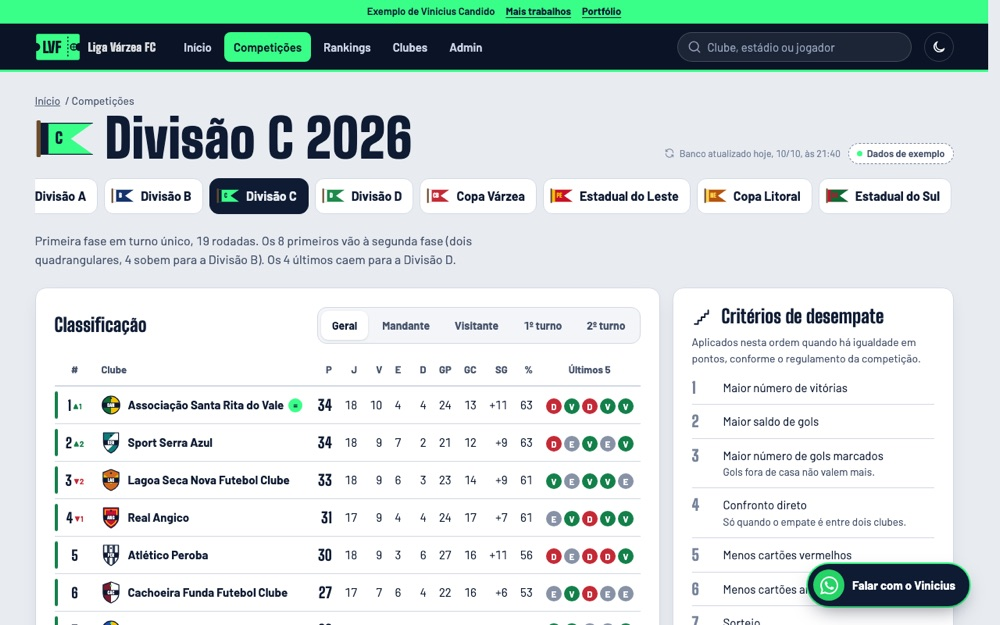
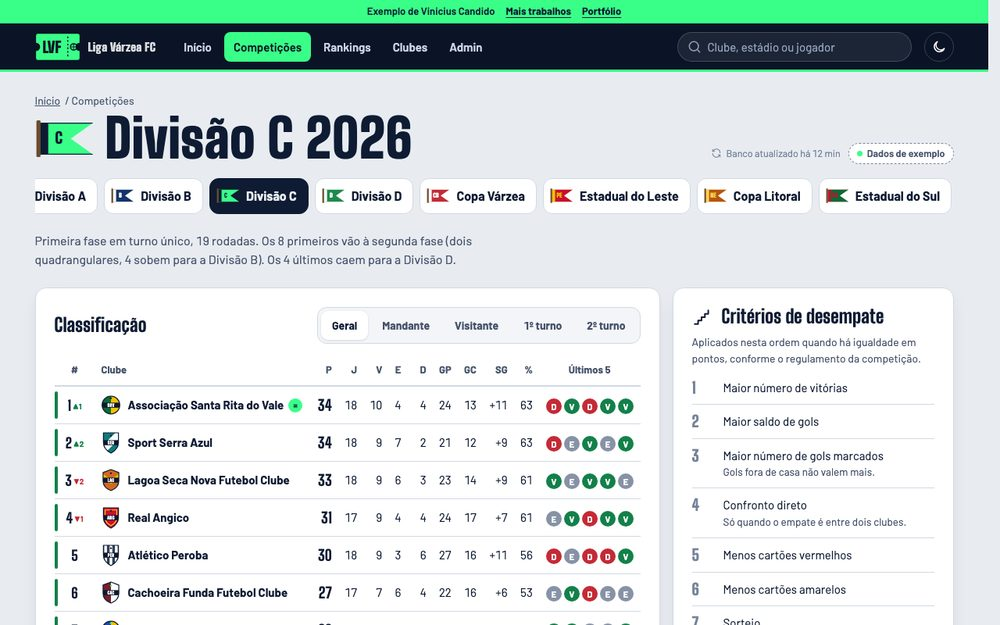
fix(trabalhos): gutter mobile, nomes e siglas fictícios, capturas sem botão, og:image própria e cartão da psicologia pelo CRP

Changed region(s): [[0.806, 0.8816, 0.992, 1.0], [0.682, 0.2432, 0.837, 0.2736]]

diff --git a/public/trabalhos/liga-varzea/index.html b/public/trabalhos/liga-varzea/index.html
@@ -794,7 +794,7 @@ function cnt(v,f,txt){return '<span class="cnt" data-v="'+v+'" data-f="'+(f||"n"
 var FMT={n:function(v){return n(Math.round(v));},brl:function(v){return brl.format(v);},pct:function(v){return Math.round(v*100)+"%";},o:function(v){return Math.round(v)+"º";}};
 function selo(){return '<span class="selo" title="Números inventados para demonstrar o produto"><i></i>Dados de exemplo</span>';}
 var uid=0;
-function sync(dark){return '<span class="sync'+(dark?' d':'')+'" title="O site lê do banco próprio do LVF, não da API a cada visita">'+ico("sync","width:14px;height:14px")+'Banco atualizado hoje, 10/10, às 21:40</span>';}
+function sync(dark){return '<span class="sync'+(dark?' d':'')+'" title="O site lê do banco próprio do LVF, não da API a cada visita">'+ico("sync","width:14px;height:14px")+'Banco atualizado há 12 min</span>';}
 
 /* ---------- estádios (capacidades aproximadas, uso ilustrativo) ---------- */
 var EST={
@@ -875,10 +875,10 @@ var C=[
  ["c01","Atlético Peroba","PER","Peroba","PE","#2E4057","#FFFFFF","e01",0,"listras",80,10700,33],
  ["c02","Peroba Futebol Clube","PRO","Peroba","PE","#F2C200","#F7D117","e02",2,"faixa",67,20200,28],
  ["c03","Esporte Clube Praia Seca","PRA","Praia Seca","SC","#1F4AA8","#FFFFFF","e03",0,"listras",69,6500,27],
- ["c04","Associação Santa Rita do Vale","SAN","Santa Rita do Vale","SP","#0E6B35","#F2C200","e04",1,"metade",72,2900,33],
+ ["c04","Associação Santa Rita do Vale","SRV","Santa Rita do Vale","SP","#0E6B35","#F2C200","e04",1,"metade",72,2900,33],
  ["c05","Lagoa Seca Nova Futebol Clube","LAG","Lagoa Seca Nova","SP","#D2691E","#F2C200","e05",2,"chevron",70,4400,36],
  ["c06","Sport Serra Azul","SER","Serra Azul","SC","#0F7A7A","#FFFFFF","e06",0,"faixa",72,2400,27],
- ["c07","União Campo Lindo","CAM","Campo Lindo","RS","#2E4057","#111111","e07",1,"liso",75,3100,24],
+ ["c07","União Campo Lindo","UCP","Campo Lindo","RS","#2E4057","#111111","e07",1,"liso",75,3100,24],
  ["c08","Real Angico","ANG","Angico","RS","#C8102E","#F7D117","e08",0,"liso",63,7100,27],
  ["c09","Operário Água Boa Nova","AGU","Água Boa Nova","CE","#0F7A7A","#111111","e09",3,"listras",61,2100,17],
  ["c10","Ferroviário Boa Esperança do Sul","BOA","Boa Esperança do Sul","SE","#B5550F","#FFFFFF","e10",0,"faixa",66,6900,25],
@@ -887,14 +887,14 @@ var C=[
  ["c13","Esporte Clube Cabo Sereno","CAB","Cabo Sereno","SP","#1F4AA8","#F2C200","e13",1,"metade",76,2100,28],
  ["c14","Associação Nova Aurora do Leste","NOV","Nova Aurora do Leste","GO","#F2C200","#E8E8E8","e14",3,"liso",66,3600,19],
  ["c15","Cachoeira Funda Futebol Clube","CAC","Cachoeira Funda","PR","#7A1C2E","#FFFFFF","e15",2,"metade",70,3100,22],
- ["c16","Sport Porto Alvorada","POR","Porto Alvorada","SE","#2E4057","#E8E8E8","e16",0,"chevron",67,5000,21],
+ ["c16","Sport Porto Alvorada","SPA","Porto Alvorada","SE","#2E4057","#E8E8E8","e16",0,"chevron",67,5000,21],
  ["c17","União Rio Claro Novo","RIO","Rio Claro Novo","SP","#B5550F","#111111","e17",1,"faixa",64,2600,28],
  ["c18","Real Morro Verde","MOR","Morro Verde","AM","#D2691E","#FFFFFF","e18",2,"listras",70,3600,30],
- ["c19","Operário São Clemente","SAO","São Clemente","MG","#5B2C83","#F2C200","e19",3,"chevron",59,800,19],
+ ["c19","Operário São Clemente","OSC","São Clemente","MG","#5B2C83","#F2C200","e19",3,"chevron",59,800,19],
  ["c20","Ferroviário Mangueiras","MAN","Mangueiras","AL","#1F4AA8","#F7D117","e20",0,"listras",65,7300,29],
  /* Divisão A (exemplo) */
  ["c21","Atlético Colina Real","COL","Colina Real","RJ","#C8102E","#111111","e21",0,"listras",87,43000,97],
- ["c22","Cruz das Almas Novas FC","CRU","Cruz das Almas Novas","SP","#F2C200","#E8E8E8","e22",2,"liso",90,29500,112],
+ ["c22","Cruz das Almas Novas FC","CDN","Cruz das Almas Novas","SP","#F2C200","#E8E8E8","e22",2,"liso",90,29500,112],
  ["c23","Sport Cruz das Almas Novas","CUZ","Cruz das Almas Novas","SP","#1A8FD0","#E8E8E8","e23",1,"liso",85,41500,92],
  ["c24","Ferroviário Cruz das Almas Novas","CRS","Cruz das Almas Novas","SP","#F2C200","#FFFFFF","e24",3,"faixa",89,33200,79],
  ["c25","Cerrado Alto Futebol Clube","CER","Cerrado Alto","SP","#B5550F","#FFFFFF","e25",0,"listras",80,12700,74],
@@ -928,7 +928,7 @@ var C=[
  ["c52","Pedra Branca FC","PED","Pedra Branca","PR","#C8102E","#F2C200","e49",0,"listras",75,5300,36],
  ["c53","Sport Vargem Bonita","VRG","Vargem Bonita","GO","#B5550F","#F2C200","e50",1,"listras",77,6300,38],
  ["c54","Ferroviário Vargem Bonita","VAA","Vargem Bonita","GO","#111111","#F7D117","e51",3,"liso",70,5300,36],
- ["c55","Atlético Barreiras Novas","BAS","Barreiras Novas","MG","#F2C200","#FFFFFF","e52",0,"listras",74,9100,42],
+ ["c55","União Barreiras Novas","BAS","Barreiras Novas","MG","#F2C200","#FFFFFF","e52",0,"listras",74,9100,42],
  ["c56","Sport Lagoa Dourada","LGO","Lagoa Dourada","MT","#5B2C83","#F2C200","e53",2,"metade",71,7300,33],
  ["c57","União Salto Claro","SLT","Salto Claro","MG","#B5550F","#FFFFFF","e54",1,"listras",71,3000,27],
  ["c58","Real Sertão Manso","SRT","Sertão Manso","RJ","#B5550F","#F7D117","e55",0,"faixa",73,4000,32],
@@ -936,7 +936,7 @@ var C=[
  ["c60","Ferroviário Rio Manso","ROM","Rio Manso","MA","#7A1C2E","#FFFFFF","e57",3,"faixa",69,8800,33],
  /* Divisão D, Grupo 3 (exemplo) */
  ["c61","Atlético Mata Redonda","MAT","Mata Redonda","PE","#1A8FD0","#FFFFFF","e58",1,"faixa",63,2800,22],
- ["c62","Guaporé Novo FC","GUA","Guaporé Novo","PE","#F2C200","#FFFFFF","e59",0,"listras",62,3900,20],
+ ["c62","Guaporé Novo FC","GNV","Guaporé Novo","PE","#F2C200","#FFFFFF","e59",0,"listras",62,3900,20],
  ["c63","Esporte Clube Taquaral do Norte","TAQ","Taquaral do Norte","PB","#0F7A7A","#FFFFFF","e60",2,"listras",64,6000,23],
  ["c64","União Taquaral do Norte","TQU","Taquaral do Norte","PB","#F2C200","#FFFFFF","e60",0,"listras",62,4700,23],
  ["c65","Alto Bonito Futebol Clube","ALT","Alto Bonito","AL","#D2691E","#F2C200","e61",3,"liso",58,2800,19],
@@ -944,7 +944,7 @@ var C=[
  /* estaduais (exemplo) */
  ["c67","União Mirante do Vale","MIR","Mirante do Vale","PE","#1A8FD0","#FFFFFF","e62",0,"liso",58,2000,16],
  ["c68","Real Estrela do Oeste","EST","Estrela do Oeste","PE","#5B2C83","#111111","e63",2,"faixa",52,1300,17],
- ["c69","Guaporé Novo FC","GAP","Guaporé Novo","PE","#1A8FD0","#FFFFFF","e59",1,"listras",52,1500,14],
+ ["c69","Real Guaporé Novo","RGN","Guaporé Novo","PE","#1A8FD0","#FFFFFF","e59",1,"listras",52,1500,14],
  ["c70","Ferroviário Jacarandá","JAC","Jacarandá","RS","#B5550F","#FFFFFF","e64",0,"listras",68,5200,25],
  ["c71","União Bom Jardim do Sul","BOL","Bom Jardim do Sul","RS","#1A8FD0","#F2C200","e65",2,"liso",63,2200,22],
  ["c72","Tamanduá FC","TAM","Tamanduá","RS","#2E4057","#F7D117","e66",1,"faixa",60,2100,18],

diff --git a/public/trabalhos/consultorio-exemplo/index.html b/public/trabalhos/consultorio-exemplo/index.html
@@ -181,6 +181,8 @@ body{padding-bottom:84px}
 .trust{display:flex;flex-wrap:wrap;gap:10px 22px;margin-top:26px;font-size:15px;color:var(--muted)}
 .trust span{display:flex;gap:8px;align-items:center}
 .trust svg{width:20px;height:20px;color:var(--pine)}
+.selo-nota{display:flex;gap:10px;align-items:flex-start;margin:14px 0 0;padding:12px 14px;max-width:46ch;font-size:14.5px;line-height:1.45;color:var(--ink);background:var(--ok-soft);border-radius:14px}
+.selo-nota svg{flex:none;width:20px;height:20px;margin-top:1px;color:var(--ok)}
 .hero-art{position:relative}
 .hero-art .float{position:absolute;background:var(--surface);border-radius:18px;box-shadow:var(--shadow);padding:12px 14px;display:flex;gap:10px;align-items:center;font-size:14px;line-height:1.3}
 .hero-art .float b{display:block;font-size:15px}
@@ -793,10 +795,10 @@ const S={
   reqs:[{n:'Júlia M.',d:'Ter, 13/10',h:'10:00',v:140,primeira:true},{n:'Lia F.',d:'Qui, 15/10',h:'19:00',v:140,primeira:false}],
   crpState:'done', crpUp:true, lgpd:true, wk:null, filt:{ab:'',tema:'',max:200,turno:''},
   queue:[
-    {n:'nome-privado Lopes',crp:'CRP 00/10007',r:'ok',t:'Situação ativa, nome confere',av:{s:0,h:2,b:1,c:1,hair:1}},
-    {n:'Otávio Reis',crp:'CRP 00/10008',r:'warn',t:'Nome diferente do documento enviado',av:{s:2,h:0,b:3,c:3,hair:4,beard:true}},
-    {n:'Sofia Andrade',crp:'CRP 00/10009',r:'ok',t:'Situação ativa, nome confere',av:{s:4,h:3,b:0,c:4,hair:3}},
-    {n:'Igor Campos',crp:'CRP 00/10010',r:'bad',t:'Registro não encontrado no cadastro do Conselho',av:{s:1,h:1,b:5,c:2,hair:0}}
+    {n:'Larissa Moraes',crp:'CRP 00/10007',r:'ok',t:'Situação ativa, nome confere',av:{s:0,h:2,b:1,c:1,hair:1}},
+    {n:'Davi Queiroz',crp:'CRP 00/10008',r:'warn',t:'Nome diferente do documento enviado',av:{s:2,h:0,b:3,c:3,hair:4,beard:true}},
+    {n:'Aline Furtado',crp:'CRP 00/10009',r:'ok',t:'Situação ativa, nome confere',av:{s:4,h:3,b:0,c:4,hair:3}},
+    {n:'Ícaro Bastos',crp:'CRP 00/10010',r:'bad',t:'Registro não encontrado no cadastro do Conselho',av:{s:1,h:1,b:5,c:2,hair:0}}
   ],
   mod:[
     {q:'A Lívia me ajudou a montar uma rotina que finalmente funciona.',a:'Paciente de exemplo · nota 5',f:null,st:'pend'},
@@ -935,6 +937,7 @@ function site(){
      <label>Quando<select id="h-turno"><option value="">Qualquer horário</option><option value="manha">Manhã</option><option value="tarde">Tarde</option><option value="noite">Noite</option></select></label>
      <button class="btn btn-p" type="submit">${ic('search')}Buscar</button></form>
     <div class="trust"><span>${ic('shieldc')}CRP conferido em todo perfil</span><span>${ic('lock')}Pagamento pela plataforma</span><span>${WA.replace('<svg','<svg style="color:var(--wa)"')}Sessão no WhatsApp</span></div>
+    <p class="selo-nota">${ic('shieldc')}<span><b>Selo reconferido todo mês.</b> Perfil com CRP irregular sai da busca e tem a agenda pausada.</span></p>
     <div class="breath" aria-hidden="true"><i></i><span>Respire com a bolinha enquanto escolhe: <b id="brt">inspire</b></span></div>
    </div>
    <div class="hero-art">${HERO_ART}
@@ -1270,7 +1273,7 @@ function admin(){
     const lab={ok:['p-ok','Confere'],warn:['p-warn','Divergência'],bad:['p-bad','Não encontrado']};
     b=`<h2 class="ttl">Verificação de CRP</h2><p class="lead">A consulta automática resolve a maioria. Aqui ficam os casos que pedem um olhar humano.</p>
     <div class="panel" style="margin-bottom:18px"><h3 class="ph">Monitoramento contínuo <span class="pill p-ok">57 ativos conferidos este mês</span></h3>
-     <div class="alert bad">${ic('alert')}<span><b>Registro irregular: Paulo Teixeira, CRP 00/10011</b><small>Na reconferência de 09/10 o cadastro do Conselho mostrou situação “suspenso”. Perfil tirado da busca, agenda pausada, 3 pacientes avisados com opção de reembolso ou troca.</small></span></div>
+     <div class="alert bad">${ic('alert')}<span><b>Registro irregular: Péricles Vasconcelos, CRP 00/10011</b><small>Na reconferência de 09/10 o cadastro do Conselho mostrou situação “suspenso”. Perfil tirado da busca, agenda pausada, 3 pacientes avisados com opção de reembolso ou troca.</small></span></div>
      <div class="flex mt"><button class="btn btn-g btn-sm" data-recheck>Reconferir agora</button><span class="lock">${ic('clock')}Próxima varredura geral: 01/11/2026 · todos os registros, uma vez por mês</span></div></div>
     <h3 class="ph">Novos cadastros</h3><div class="panel"><div class="list">${S.queue.map((q,i)=>`<div class="row">${avatar(q.av)}<div class="grow"><b>${q.n}</b><small>${q.crp} · ${q.t}</small></div>
      ${q.done?`<span class="pill ${q.done==='ok'?'p-ok':'p-bad'}">${q.done==='ok'?'Aprovado':'Recusado'}</span>`:`<span class="pill ${lab[q.r][0]}">${lab[q.r][1]}</span>

diff --git a/public/trabalhos/index.html b/public/trabalhos/index.html
@@ -45,11 +45,11 @@ header .wrap{display:flex;align-items:center;gap:16px;min-height:56px}
 .zap{display:inline-flex;align-items:center;gap:8px;background:var(--mar);color:var(--on-mar);border-radius:999px;padding:10px 16px;min-height:44px;font:600 .95rem "Hanken Grotesk",system-ui,sans-serif;text-decoration:none;white-space:nowrap;transition:background .2s,transform .2s}
 .zap:hover{background:var(--mar-forte);transform:translateY(-1px)}
 .zap svg{width:18px;height:18px;fill:currentColor}
-.topo{padding:56px 0 24px}
+.topo{padding-block:56px 24px}
 .topo .eyebrow{font:600 .8rem "Hanken Grotesk",system-ui,sans-serif;letter-spacing:.08em;text-transform:uppercase;color:var(--mar)}
 .topo h1{font-size:clamp(2rem,5.4vw,3.4rem);line-height:1.05;margin:.35em 0 .4em;letter-spacing:-.02em}
 .topo p{max-width:62ch;color:var(--suave);margin:0}
-.grade{display:grid;gap:24px;padding:24px 0 72px;grid-template-columns:1fr}
+.grade{display:grid;gap:24px;padding-block:24px 72px;grid-template-columns:1fr}
 @media(min-width:860px){.grade{grid-template-columns:1fr 1fr;gap:32px}}
 .cartao{background:var(--alto);border:1px solid var(--linha);border-radius:18px;overflow:hidden;box-shadow:var(--sombra);display:flex;flex-direction:column;transition:transform .25s cubic-bezier(.2,.7,.2,1),box-shadow .25s}
 .cartao:hover,.cartao:focus-within{transform:translateY(-4px)}
@@ -66,7 +66,7 @@ header .wrap{display:flex;align-items:center;gap:16px;min-height:56px}
 .btn:hover{background:var(--mar-forte)}
 .btn.sec{background:transparent;color:var(--mar);border:1px solid var(--linha)}
 .btn.sec:hover{background:var(--raso)}
-.nota{border-top:1px solid var(--linha);padding:28px 0 96px;color:var(--suave);font-size:.95rem}
+.nota{border-top:1px solid var(--linha);padding-block:28px 56px;color:var(--suave);font-size:.95rem}
 .nota p{max-width:70ch;margin:0 0 8px}
 .rv{opacity:0;transform:translateY(14px);transition:opacity .5s ease,transform .5s cubic-bezier(.2,.7,.2,1),box-shadow .25s}
 .rv.on{opacity:1;transform:none}
@@ -107,9 +107,9 @@ header .wrap{display:flex;align-items:center;gap:16px;min-height:56px}
       <div class="corpo">
         <span class="exemplo">Projeto de exemplo, dados fictícios</span>
         <h2>Plataforma de psicologia online</h2>
-        <p>Terapia online só funciona quando o paciente confia no profissional e consegue marcar e pagar sem atrito. O exemplo cobre o caminho inteiro: busca, registro conferido, agenda, pagamento e as áreas do paciente, do psicólogo e da administração.</p>
+        <p>Todo mês o sistema reconfere o CRP de cada psicólogo: perfil com registro irregular sai da busca, a agenda é pausada e os pacientes marcados são avisados. É esse detalhe que dá confiança a quem escolhe um terapeuta. Em volta dele, o caminho inteiro: busca, agenda, pagamento e as áreas do paciente, do psicólogo e da administração.</p>
         <div><span class="tag">HTML</span><span class="tag">CSS</span><span class="tag">JavaScript</span><span class="tag">SVG</span><span class="tag">Quatro áreas de acesso</span></div>
-        <div class="acoes"><a class="btn" href="/trabalhos/consultorio-exemplo/">Abrir o exemplo</a></div>
+        <div class="acoes"><a class="btn" href="/trabalhos/consultorio-exemplo/">Abrir o exemplo</a><a class="btn sec" href="/trabalhos/consultorio-exemplo/#admin/crp">Ver o painel</a></div>
       </div>
     </article>
   </section>
